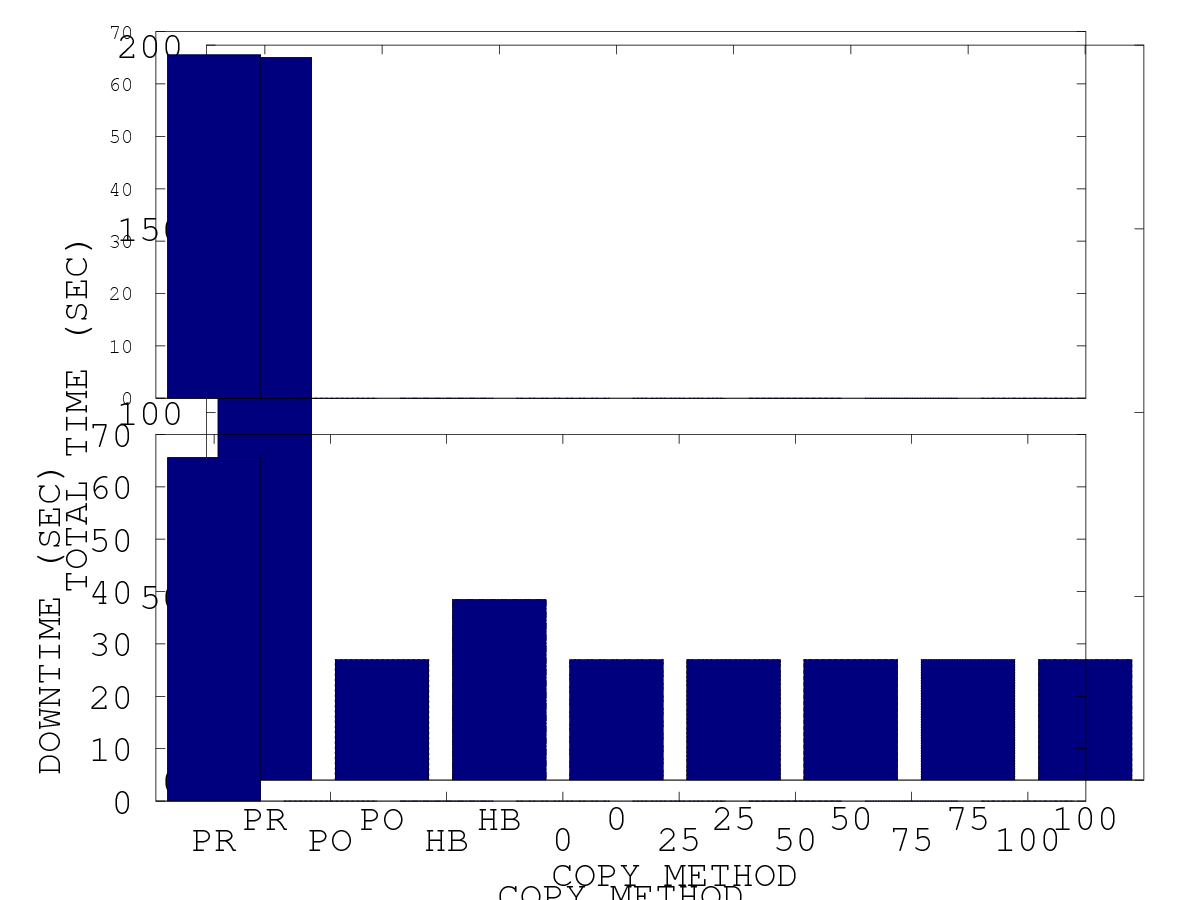
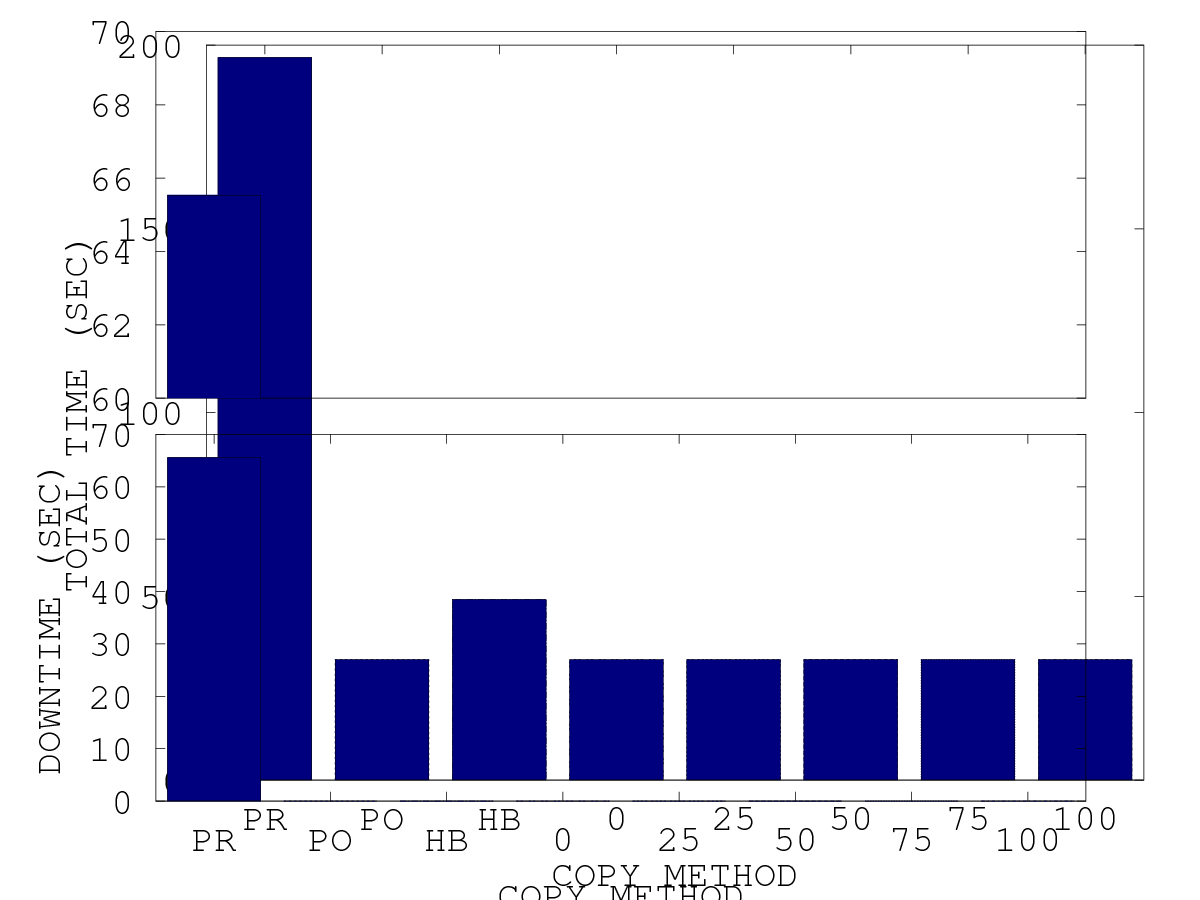
basic_break.m

diff --git a/basic_break.m b/basic_break.m
@@ -327,6 +327,7 @@ ylabel('DOWNTIME (SEC)', 'FontSize', fontsize);
 
 a2 = axes ('position', [p0(1) p0(4)/2+.15 p0(3) p0(4)/2]);
 bar(xintervals, A(:,2))
+set(a2, 'ylim', ylim2, 'FontSize', fontsize);
 set(a2, 'xtick', []);
 
 saveas (1, strcat(output, ".png"));
